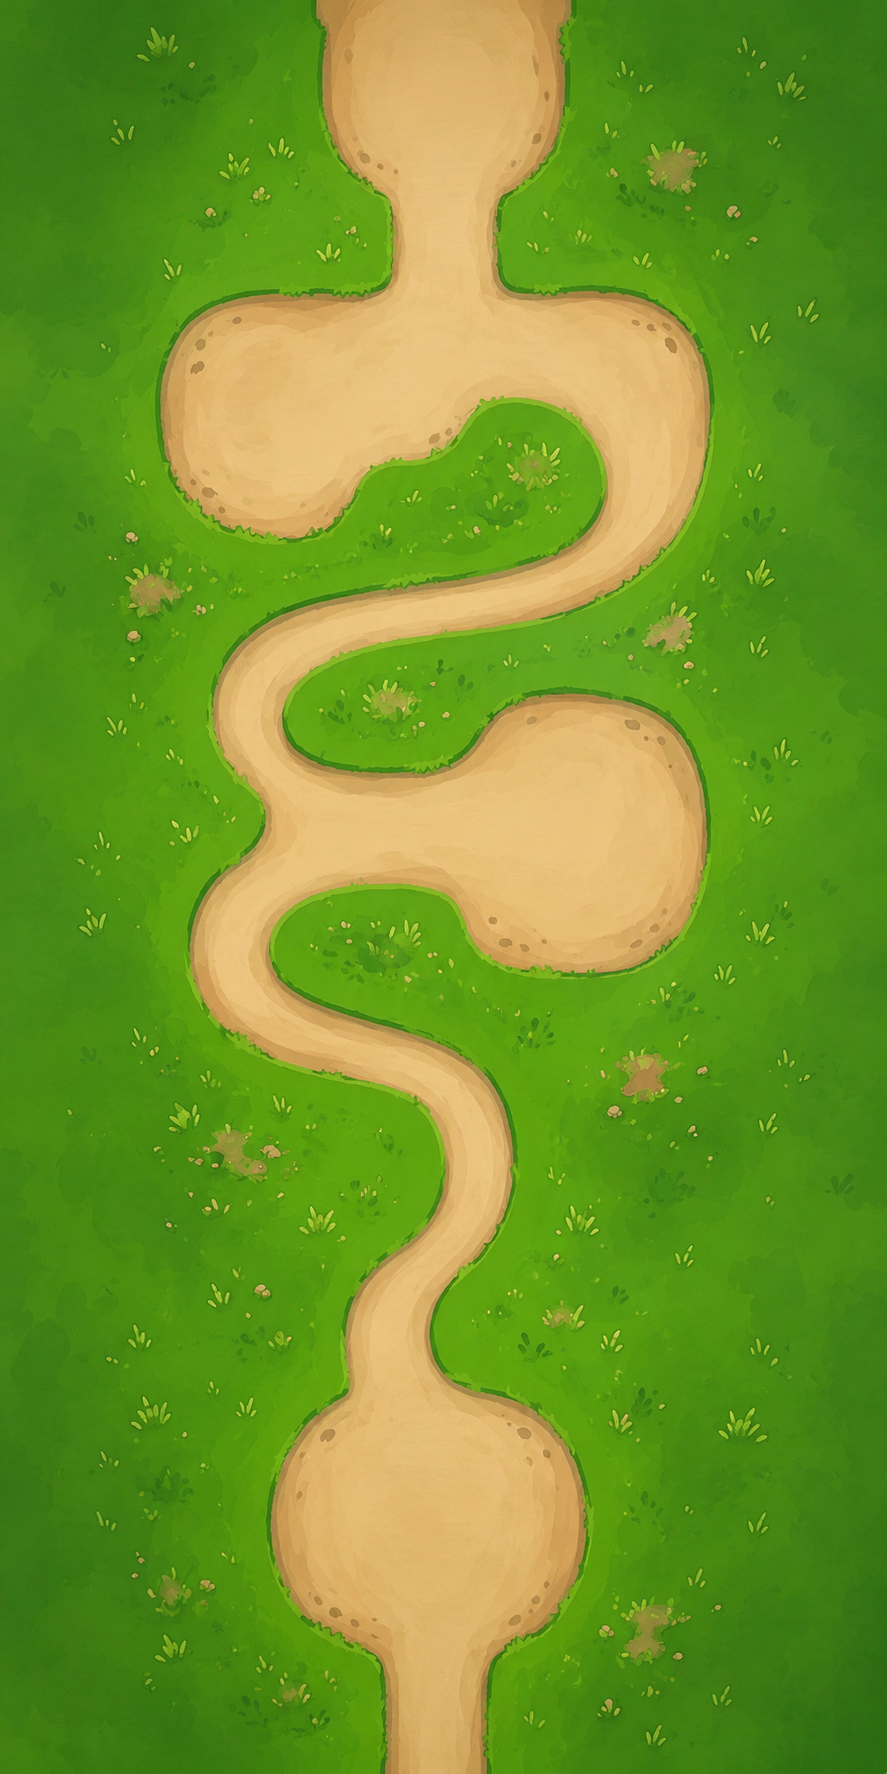
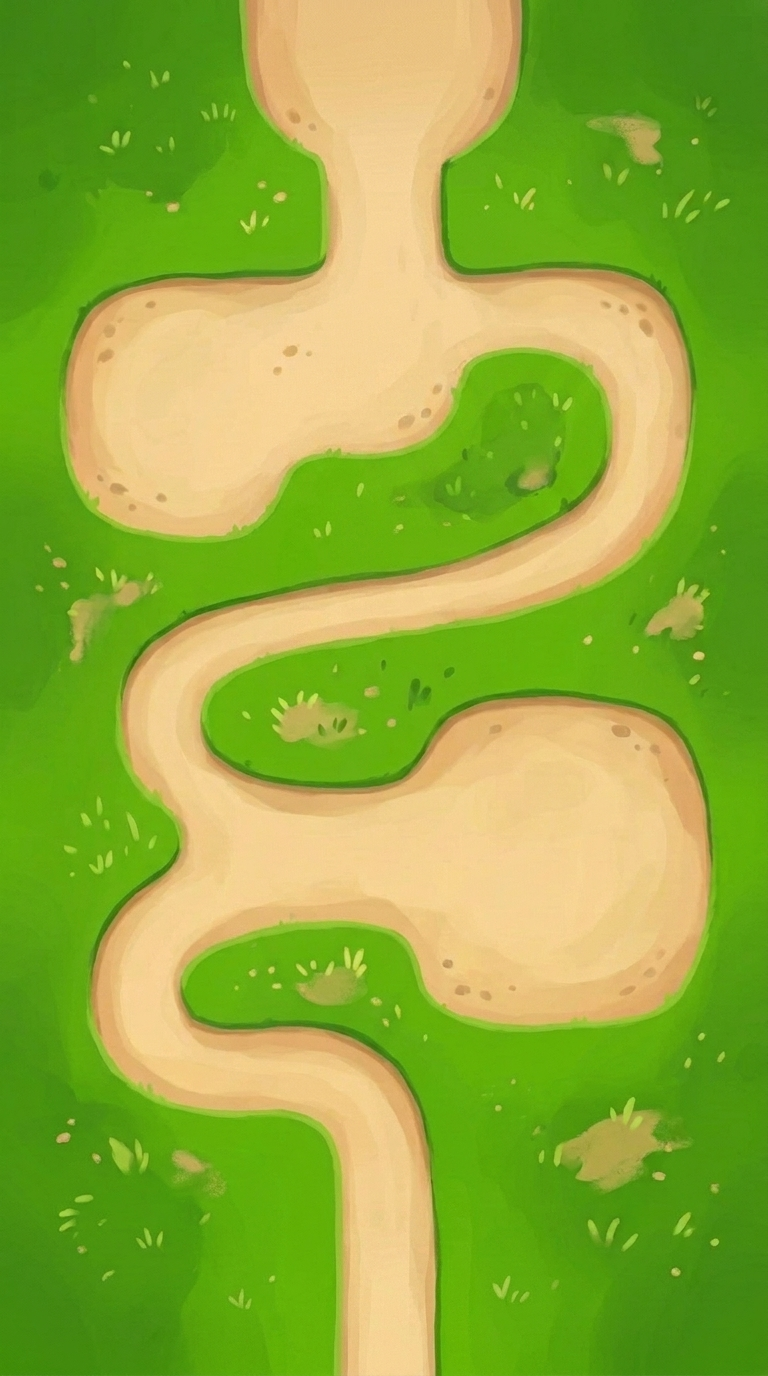
업데이트

diff --git a/assets/data.js b/assets/data.js
@@ -1698,7 +1698,7 @@ window.TOY_DATA={
       "assets/update/top/6.webp","assets/update/top/7.webp","assets/update/top/8.webp"
     ],
     "helicopter": "assets/update/helicopter.webp",
-    "heliBody": "assets/heli/body.png",
+    "heliBody": "assets/update/helicopter.webp",
     "missile": "assets/update/missile_new.png"
   },
   "items": {
